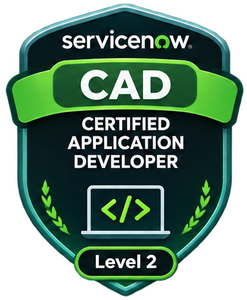
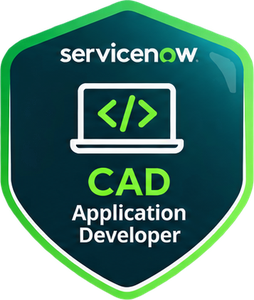
ServiceNow: new badge set incl. Level 0 badge
Claude-Session: https://claude.ai/code/session_018kgnHRXPcwgYaQevPB5mKf

diff --git a/lesson.html b/lesson.html
@@ -4,7 +4,7 @@
   <link rel="preconnect" href="https://fonts.googleapis.com"><link rel="preconnect" href="https://fonts.gstatic.com" crossorigin><link href="https://fonts.googleapis.com/css2?family=Poppins:wght@400;500;600;700;800&display=swap" rel="stylesheet">
   <meta charset="utf-8">
   <meta name="robots" content="noindex,nofollow">
-  <script src="gate.js?v=102"></script>
+  <script src="gate.js?v=103"></script>
   <meta name="viewport" content="width=device-width, initial-scale=1">
   <title>Lesson · 10-Minute IT Roadmap</title>
   <meta name="description" content="From complete beginner to IT specialist, one 10-minute lesson at a time.">
@@ -12,7 +12,7 @@
   <link rel="manifest" href="manifest.webmanifest">
   <meta name="theme-color" content="#0a0a14">
   <link rel="apple-touch-icon" href="assets/app/apple-touch-icon.png">
-  <link rel="stylesheet" href="style.css?v=102">
+  <link rel="stylesheet" href="style.css?v=103">
 </head>
 <body data-page="lesson">
 
@@ -38,12 +38,12 @@
     <span>Videos on <a href="https://www.youtube.com/" target="_blank" rel="noopener">YouTube</a></span>
   </footer>
 
-  <script src="roadmap.js?v=102"></script>
-  <script src="courses.js?v=102"></script>
-  <script src="icons.js?v=102"></script>
-  <script src="quiz.js?v=102"></script>
-  <script src="celebrate.js?v=102"></script>
-  <script src="lesson.js?v=102"></script>
-  <script src="nav.js?v=102"></script>
+  <script src="roadmap.js?v=103"></script>
+  <script src="courses.js?v=103"></script>
+  <script src="icons.js?v=103"></script>
+  <script src="quiz.js?v=103"></script>
+  <script src="celebrate.js?v=103"></script>
+  <script src="lesson.js?v=103"></script>
+  <script src="nav.js?v=103"></script>
 </body>
 </html>

diff --git a/level.html b/level.html
@@ -4,7 +4,7 @@
   <link rel="preconnect" href="https://fonts.googleapis.com"><link rel="preconnect" href="https://fonts.gstatic.com" crossorigin><link href="https://fonts.googleapis.com/css2?family=Poppins:wght@400;500;600;700;800&display=swap" rel="stylesheet">
   <meta charset="utf-8">
   <meta name="robots" content="noindex,nofollow">
-  <script src="gate.js?v=102"></script>
+  <script src="gate.js?v=103"></script>
   <meta name="viewport" content="width=device-width, initial-scale=1">
   <title>Level · 10-Minute IT Roadmap</title>
   <meta name="description" content="From complete beginner to IT specialist, one 10-minute lesson at a time.">
@@ -12,7 +12,7 @@
   <link rel="manifest" href="manifest.webmanifest">
   <meta name="theme-color" content="#0a0a14">
   <link rel="apple-touch-icon" href="assets/app/apple-touch-icon.png">
-  <link rel="stylesheet" href="style.css?v=102">
+  <link rel="stylesheet" href="style.css?v=103">
 </head>
 <body data-page="level">
 
@@ -48,11 +48,11 @@
     <span>Videos on <a href="https://www.youtube.com/" target="_blank" rel="noopener">YouTube</a></span>
   </footer>
 
-  <script src="roadmap.js?v=102"></script>
-  <script src="courses.js?v=102"></script>
-  <script src="icons.js?v=102"></script>
-  <script src="quiz.js?v=102"></script>
-  <script src="level.js?v=102"></script>
-  <script src="nav.js?v=102"></script>
+  <script src="roadmap.js?v=103"></script>
+  <script src="courses.js?v=103"></script>
+  <script src="icons.js?v=103"></script>
+  <script src="quiz.js?v=103"></script>
+  <script src="level.js?v=103"></script>
+  <script src="nav.js?v=103"></script>
 </body>
 </html>

diff --git a/intermediate.html b/intermediate.html
@@ -4,7 +4,7 @@
   <link rel="preconnect" href="https://fonts.googleapis.com"><link rel="preconnect" href="https://fonts.gstatic.com" crossorigin><link href="https://fonts.googleapis.com/css2?family=Poppins:wght@400;500;600;700;800&display=swap" rel="stylesheet">
   <meta charset="utf-8">
   <meta name="robots" content="noindex,nofollow">
-  <script src="gate.js?v=102"></script>
+  <script src="gate.js?v=103"></script>
   <meta name="viewport" content="width=device-width, initial-scale=1">
   <title>Intermediate · 10-Minute IT Roadmap</title>
   <meta name="description" content="Intermediate IT roadmap — 11 modules from OS internals to cloud computing.">
@@ -12,7 +12,7 @@
   <link rel="manifest" href="manifest.webmanifest">
   <meta name="theme-color" content="#0a0a14">
   <link rel="apple-touch-icon" href="assets/app/apple-touch-icon.png">
-  <link rel="stylesheet" href="style.css?v=102">
+  <link rel="stylesheet" href="style.css?v=103">
   <style>
     /* Intermediate page — blue-teal accent overrides */
     body[data-page="int"] {
@@ -91,10 +91,10 @@
     <span>Videos on <a href="https://www.youtube.com/" target="_blank" rel="noopener">YouTube</a></span>
   </footer>
 
-  <script src="roadmap.js?v=102"></script>
-  <script src="courses.js?v=102"></script>
-  <script src="icons.js?v=102"></script>
-  <script src="int-app.js?v=102"></script>
-  <script src="nav.js?v=102"></script>
+  <script src="roadmap.js?v=103"></script>
+  <script src="courses.js?v=103"></script>
+  <script src="icons.js?v=103"></script>
+  <script src="int-app.js?v=103"></script>
+  <script src="nav.js?v=103"></script>
 </body>
 </html>

diff --git a/index.html b/index.html
@@ -4,7 +4,7 @@
   <link rel="preconnect" href="https://fonts.googleapis.com"><link rel="preconnect" href="https://fonts.gstatic.com" crossorigin><link href="https://fonts.googleapis.com/css2?family=Poppins:wght@400;500;600;700;800&display=swap" rel="stylesheet">
   <meta charset="utf-8">
   <meta name="robots" content="noindex,nofollow">
-  <script src="gate.js?v=102"></script>
+  <script src="gate.js?v=103"></script>
   <meta name="viewport" content="width=device-width, initial-scale=1">
   <title>10-Minute IT Roadmap</title>
   <meta name="description" content="From complete beginner to IT specialist, one 10-minute lesson at a time.">
@@ -12,7 +12,7 @@
   <link rel="manifest" href="manifest.webmanifest">
   <meta name="theme-color" content="#0a0a14">
   <link rel="apple-touch-icon" href="assets/app/apple-touch-icon.png">
-  <link rel="stylesheet" href="style.css?v=102">
+  <link rel="stylesheet" href="style.css?v=103">
 </head>
 <body>
 
@@ -86,12 +86,12 @@
     </div>
   </div>
 
-  <script src="roadmap.js?v=102"></script>
-  <script src="courses.js?v=102"></script>
-  <script src="icons.js?v=102"></script>
-  <script src="quiz.js?v=102"></script>
-  <script src="app.js?v=102"></script>
-  <script src="nav.js?v=102"></script>
-  <script src="plans.js?v=102"></script>
+  <script src="roadmap.js?v=103"></script>
+  <script src="courses.js?v=103"></script>
+  <script src="icons.js?v=103"></script>
+  <script src="quiz.js?v=103"></script>
+  <script src="app.js?v=103"></script>
+  <script src="nav.js?v=103"></script>
+  <script src="plans.js?v=103"></script>
 </body>
 </html>

diff --git a/certs.html b/certs.html
@@ -4,7 +4,7 @@
   <link rel="preconnect" href="https://fonts.googleapis.com"><link rel="preconnect" href="https://fonts.gstatic.com" crossorigin><link href="https://fonts.googleapis.com/css2?family=Poppins:wght@400;500;600;700;800&display=swap" rel="stylesheet">
   <meta charset="utf-8">
   <meta name="robots" content="noindex,nofollow">
-  <script src="gate.js?v=102"></script>
+  <script src="gate.js?v=103"></script>
   <meta name="viewport" content="width=device-width, initial-scale=1">
   <title>Certifications · 10-Minute IT Roadmap</title>
   <meta name="description" content="From complete beginner to IT specialist, one 10-minute lesson at a time.">
@@ -12,7 +12,7 @@
   <link rel="manifest" href="manifest.webmanifest">
   <meta name="theme-color" content="#0a0a14">
   <link rel="apple-touch-icon" href="assets/app/apple-touch-icon.png">
-  <link rel="stylesheet" href="style.css?v=102">
+  <link rel="stylesheet" href="style.css?v=103">
 </head>
 <body data-page="certs">
 
@@ -52,10 +52,10 @@
     <span>Videos on <a href="https://www.youtube.com/" target="_blank" rel="noopener">YouTube</a></span>
   </footer>
 
-  <script src="roadmap.js?v=102"></script>
-  <script src="courses.js?v=102"></script>
-  <script src="icons.js?v=102"></script>
-  <script src="certs.js?v=102"></script>
-  <script src="nav.js?v=102"></script>
+  <script src="roadmap.js?v=103"></script>
+  <script src="courses.js?v=103"></script>
+  <script src="icons.js?v=103"></script>
+  <script src="certs.js?v=103"></script>
+  <script src="nav.js?v=103"></script>
 </body>
 </html>

diff --git a/path.html b/path.html
@@ -4,7 +4,7 @@
   <link rel="preconnect" href="https://fonts.googleapis.com"><link rel="preconnect" href="https://fonts.gstatic.com" crossorigin><link href="https://fonts.googleapis.com/css2?family=Poppins:wght@400;500;600;700;800&display=swap" rel="stylesheet">
   <meta charset="utf-8">
   <meta name="robots" content="noindex,nofollow">
-  <script src="gate.js?v=102"></script>
+  <script src="gate.js?v=103"></script>
   <meta name="viewport" content="width=device-width, initial-scale=1">
   <title>Agile & Project Management · 10-Minute IT Roadmap</title>
   <meta name="description" content="From complete beginner to IT specialist, one 10-minute lesson at a time.">
@@ -12,7 +12,7 @@
   <link rel="manifest" href="manifest.webmanifest">
   <meta name="theme-color" content="#0a0a14">
   <link rel="apple-touch-icon" href="assets/app/apple-touch-icon.png">
-  <link rel="stylesheet" href="style.css?v=102">
+  <link rel="stylesheet" href="style.css?v=103">
 </head>
 <body data-page="path">
 
@@ -38,9 +38,9 @@
     <span>Videos on <a href="https://www.youtube.com/" target="_blank" rel="noopener">YouTube</a></span>
   </footer>
 
-  <script src="roadmap.js?v=102"></script>
-  <script src="courses.js?v=102"></script>
-  <script src="path-page.js?v=102"></script>
-  <script src="nav.js?v=102"></script>
+  <script src="roadmap.js?v=103"></script>
+  <script src="courses.js?v=103"></script>
+  <script src="path-page.js?v=103"></script>
+  <script src="nav.js?v=103"></script>
 </body>
 </html>

diff --git a/tools.html b/tools.html
@@ -4,7 +4,7 @@
   <link rel="preconnect" href="https://fonts.googleapis.com"><link rel="preconnect" href="https://fonts.gstatic.com" crossorigin><link href="https://fonts.googleapis.com/css2?family=Poppins:wght@400;500;600;700;800&display=swap" rel="stylesheet">
   <meta charset="utf-8">
   <meta name="robots" content="noindex,nofollow">
-  <script src="gate.js?v=102"></script>
+  <script src="gate.js?v=103"></script>
   <meta name="viewport" content="width=device-width, initial-scale=1">
   <title>IT Tools · 10-Minute IT Roadmap</title>
   <meta name="description" content="From complete beginner to IT specialist, one 10-minute lesson at a time.">
@@ -12,7 +12,7 @@
   <link rel="manifest" href="manifest.webmanifest">
   <meta name="theme-color" content="#0a0a14">
   <link rel="apple-touch-icon" href="assets/app/apple-touch-icon.png">
-  <link rel="stylesheet" href="style.css?v=102">
+  <link rel="stylesheet" href="style.css?v=103">
 </head>
 <body data-page="tools">
 
@@ -49,9 +49,9 @@
     <span>Videos on <a href="https://www.youtube.com/" target="_blank" rel="noopener">YouTube</a></span>
   </footer>
 
-  <script src="roadmap.js?v=102"></script>
-  <script src="courses.js?v=102"></script>
-  <script src="tools-page.js?v=102"></script>
-  <script src="nav.js?v=102"></script>
+  <script src="roadmap.js?v=103"></script>
+  <script src="courses.js?v=103"></script>
+  <script src="tools-page.js?v=103"></script>
+  <script src="nav.js?v=103"></script>
 </body>
 </html>

diff --git a/course.html b/course.html
@@ -4,7 +4,7 @@
   <link rel="preconnect" href="https://fonts.googleapis.com"><link rel="preconnect" href="https://fonts.gstatic.com" crossorigin><link href="https://fonts.googleapis.com/css2?family=Poppins:wght@400;500;600;700;800&display=swap" rel="stylesheet">
   <meta charset="utf-8">
   <meta name="robots" content="noindex,nofollow">
-  <script src="gate.js?v=102"></script>
+  <script src="gate.js?v=103"></script>
   <meta name="viewport" content="width=device-width, initial-scale=1">
   <title>ITIL · 10-Minute IT Roadmap</title>
   <meta name="description" content="From complete beginner to IT specialist, one 10-minute lesson at a time.">
@@ -12,7 +12,7 @@
   <link rel="manifest" href="manifest.webmanifest">
   <meta name="theme-color" content="#0a0a14">
   <link rel="apple-touch-icon" href="assets/app/apple-touch-icon.png">
-  <link rel="stylesheet" href="style.css?v=102">
+  <link rel="stylesheet" href="style.css?v=103">
 </head>
 <body data-page="course">
 
@@ -38,9 +38,9 @@
     <span>Videos on <a href="https://www.youtube.com/" target="_blank" rel="noopener">YouTube</a></span>
   </footer>
 
-  <script src="roadmap.js?v=102"></script>
-  <script src="courses.js?v=102"></script>
-  <script src="course-page.js?v=102"></script>
-  <script src="nav.js?v=102"></script>
+  <script src="roadmap.js?v=103"></script>
+  <script src="courses.js?v=103"></script>
+  <script src="course-page.js?v=103"></script>
+  <script src="nav.js?v=103"></script>
 </body>
 </html>

diff --git a/tool.html b/tool.html
@@ -4,7 +4,7 @@
   <link rel="preconnect" href="https://fonts.googleapis.com"><link rel="preconnect" href="https://fonts.gstatic.com" crossorigin><link href="https://fonts.googleapis.com/css2?family=Poppins:wght@400;500;600;700;800&display=swap" rel="stylesheet">
   <meta charset="utf-8">
   <meta name="robots" content="noindex,nofollow">
-  <script src="gate.js?v=102"></script>
+  <script src="gate.js?v=103"></script>
   <meta name="viewport" content="width=device-width, initial-scale=1">
   <title>Tool · 10-Minute IT Roadmap</title>
   <meta name="description" content="From complete beginner to IT specialist, one 10-minute lesson at a time.">
@@ -12,7 +12,7 @@
   <link rel="manifest" href="manifest.webmanifest">
   <meta name="theme-color" content="#0a0a14">
   <link rel="apple-touch-icon" href="assets/app/apple-touch-icon.png">
-  <link rel="stylesheet" href="style.css?v=102">
+  <link rel="stylesheet" href="style.css?v=103">
 </head>
 <body data-page="tool">
 
@@ -38,9 +38,9 @@
     <span>Videos on <a href="https://www.youtube.com/" target="_blank" rel="noopener">YouTube</a></span>
   </footer>
 
-  <script src="roadmap.js?v=102"></script>
-  <script src="courses.js?v=102"></script>
-  <script src="tool-page.js?v=102"></script>
-  <script src="nav.js?v=102"></script>
+  <script src="roadmap.js?v=103"></script>
+  <script src="courses.js?v=103"></script>
+  <script src="tool-page.js?v=103"></script>
+  <script src="nav.js?v=103"></script>
 </body>
 </html>

diff --git a/spec.html b/spec.html
@@ -4,7 +4,7 @@
   <link rel="preconnect" href="https://fonts.googleapis.com"><link rel="preconnect" href="https://fonts.gstatic.com" crossorigin><link href="https://fonts.googleapis.com/css2?family=Poppins:wght@400;500;600;700;800&display=swap" rel="stylesheet">
   <meta charset="utf-8">
   <meta name="robots" content="noindex,nofollow">
-  <script src="gate.js?v=102"></script>
+  <script src="gate.js?v=103"></script>
   <meta name="viewport" content="width=device-width, initial-scale=1">
   <title>Specialization · 10-Minute IT Roadmap</title>
   <meta name="description" content="From complete beginner to IT specialist, one 10-minute lesson at a time.">
@@ -12,7 +12,7 @@
   <link rel="manifest" href="manifest.webmanifest">
   <meta name="theme-color" content="#0a0a14">
   <link rel="apple-touch-icon" href="assets/app/apple-touch-icon.png">
-  <link rel="stylesheet" href="style.css?v=102">
+  <link rel="stylesheet" href="style.css?v=103">
 </head>
 <body data-page="spec">
 
@@ -45,9 +45,9 @@
     <span>Videos on <a href="https://www.youtube.com/" target="_blank" rel="noopener">YouTube</a></span>
   </footer>
 
-  <script src="roadmap.js?v=102"></script>
-  <script src="icons.js?v=102"></script>
-  <script src="spec.js?v=102"></script>
-  <script src="nav.js?v=102"></script>
+  <script src="roadmap.js?v=103"></script>
+  <script src="icons.js?v=103"></script>
+  <script src="spec.js?v=103"></script>
+  <script src="nav.js?v=103"></script>
 </body>
 </html>

diff --git a/plans.html b/plans.html
@@ -4,7 +4,7 @@
   <link rel="preconnect" href="https://fonts.googleapis.com"><link rel="preconnect" href="https://fonts.gstatic.com" crossorigin><link href="https://fonts.googleapis.com/css2?family=Poppins:wght@400;500;600;700;800&display=swap" rel="stylesheet">
   <meta charset="utf-8">
   <meta name="robots" content="noindex,nofollow">
-  <script src="gate.js?v=102"></script>
+  <script src="gate.js?v=103"></script>
   <meta name="viewport" content="width=device-width, initial-scale=1">
   <title>Plans · 10-Minute IT Roadmap</title>
   <meta name="description" content="From complete beginner to IT specialist, one 10-minute lesson at a time.">
@@ -12,7 +12,7 @@
   <link rel="manifest" href="manifest.webmanifest">
   <meta name="theme-color" content="#0a0a14">
   <link rel="apple-touch-icon" href="assets/app/apple-touch-icon.png">
-  <link rel="stylesheet" href="style.css?v=102">
+  <link rel="stylesheet" href="style.css?v=103">
 </head>
 <body data-page="plans">
 
@@ -40,9 +40,9 @@
     <span>Videos on <a href="https://www.youtube.com/" target="_blank" rel="noopener">YouTube</a></span>
   </footer>
 
-  <script src="roadmap.js?v=102"></script>
-  <script src="icons.js?v=102"></script>
-  <script src="plans.js?v=102"></script>
-  <script src="nav.js?v=102"></script>
+  <script src="roadmap.js?v=103"></script>
+  <script src="icons.js?v=103"></script>
+  <script src="plans.js?v=103"></script>
+  <script src="nav.js?v=103"></script>
 </body>
 </html>

diff --git a/courses.js b/courses.js
@@ -476,5 +476,5 @@ var LEVEL53 = (function () {
 })();
 
 /* ---- certification badge pictures for tool levels (assets/cert-badges/<tool>-<level>.png) ---- */
-var TOOL_BADGES = { microsoft365: [0, 1, 2, 3, 4], servicenow: [1, 2, 3, 4, 5] };
-function toolBadgeSrc(toolId, i) { var l = TOOL_BADGES[toolId]; return l && l.indexOf(i) >= 0 ? "assets/cert-badges/" + toolId + "-" + i + ".png" : null; }
+var TOOL_BADGES = { microsoft365: [0, 1, 2, 3, 4], servicenow: [0, 1, 2, 3, 4, 5] };
+function toolBadgeSrc(toolId, i) { var l = TOOL_BADGES[toolId]; return l && l.indexOf(i) >= 0 ? "assets/cert-badges/" + toolId + "-" + i + ".png?v=2" : null; }
